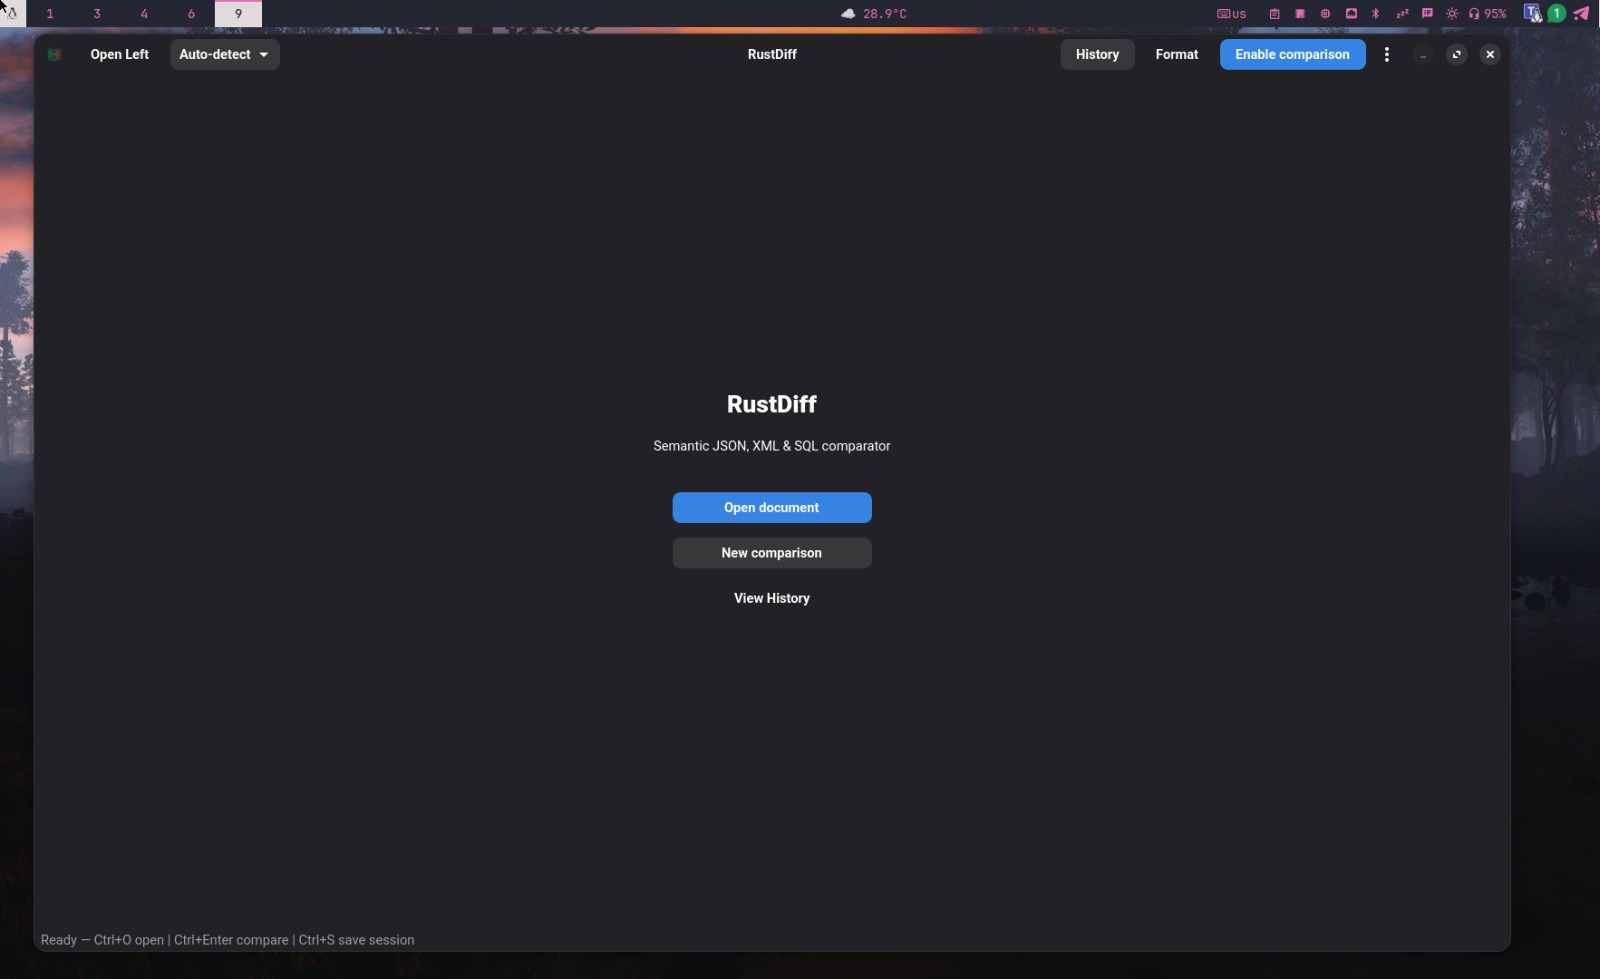
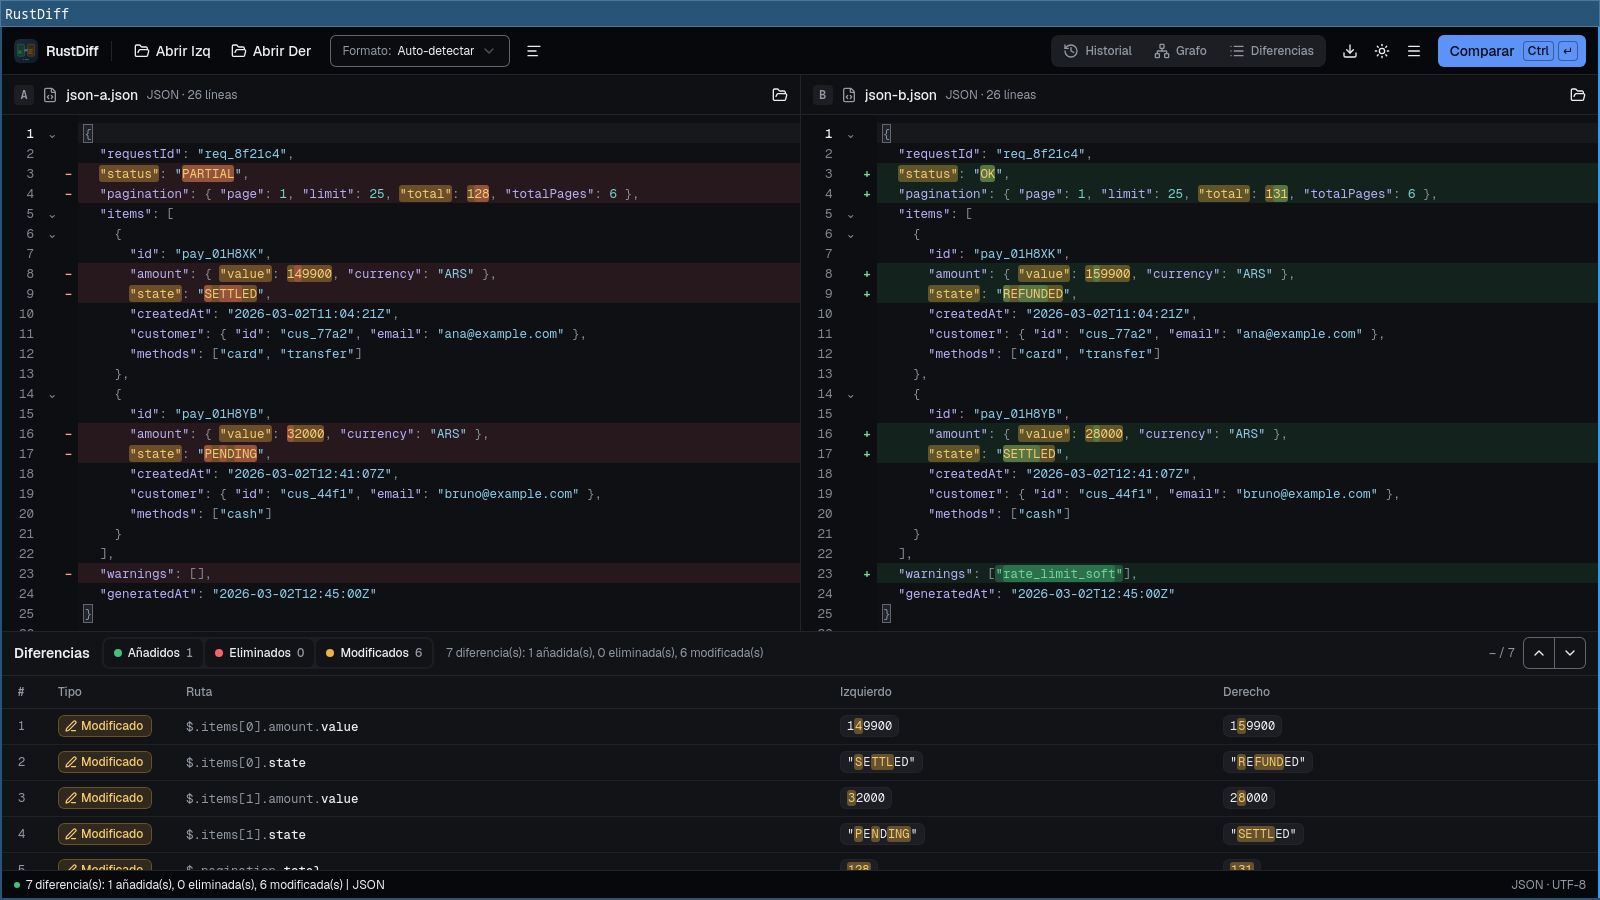
docs(appstream): refresh the screenshots for JSON, XML, SQL and the graph
The declared screenshots still showed the pre-1.0.5 header and only covered
JSON. This replaces them with five captures of the current UI at 1600x900 with
the window chrome visible, as AppStream requires:

- main: two JSON documents with inline highlights
- xml: two XML documents compared node by node, attributes included
- sql: two SQL scripts compared statement by statement
- graph / graph-xml: the node graph of a JSON document and of an XML one, so
  the shape each format produces is visible

They were captured headlessly with a sway compositor and grim over invented
documents, so no real payload appears. diff-table.png and history.png stay in
the repository but are no longer declared.

The metainfo still warns about the new URLs until this lands on main, which is
what the raw.githubusercontent URLs point at.

diff --git a/data/screenshots/README.md b/data/screenshots/README.md
@@ -14,8 +14,15 @@ https://raw.githubusercontent.com/jereok91/rustdiff/main/data/screenshots/<nombr
 | Archivo         | Descripción                                                        |
 |-----------------|--------------------------------------------------------------------|
 | `main.png`      | Captura principal: dos JSON comparados con resaltado de diferencias |
-| `diff-table.png`| Vista inferior de la tabla de diferencias con filtros activos      |
-| `history.png`   | Panel lateral de historial con varias sesiones guardadas           |
+| `xml.png`       | Dos documentos XML comparados por nodo y atributo                  |
+| `sql.png`       | Dos conjuntos de sentencias SQL comparados tras normalizar          |
+| `graph.png`     | Mapa de nodos de un documento JSON                                  |
+| `graph-xml.png` | Mapa de nodos de un documento XML (nodos y atributos)               |
+
+Las capturas se hacen con `target/shots/capture.sh` sobre un sway headless
+(1600x900, ventana con decoración) y muestran documentos inventados: ninguna
+lleva datos reales. `diff-table.png` y `history.png` quedan en el repo de la
+etapa GTK pero ya no se declaran en el metainfo.
 
 ## Requisitos técnicos (Flathub / AppStream)
 
